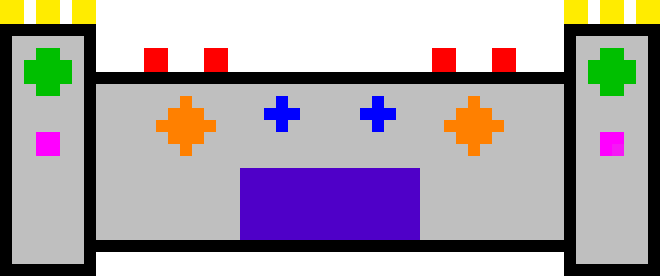
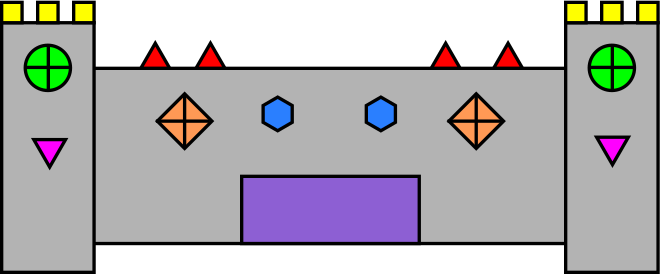
apple fools has ended

Changed region(s): [[0.0, 0.0, 1.0, 0.9927], [0.5455, 0.3504, 0.6061, 0.4964], [0.3939, 0.3504, 0.4545, 0.4964]]

diff --git a/js/states/Load.js b/js/states/Load.js
@@ -14,9 +14,6 @@ Load.shouldLoadAudio = function () {
 };
 
 Load.prototype.preload = function () {
-    // Apple fools joke!
-    game.stage.smoothed = false;
-
     var r = this.game.resolution;
     game.canvas.oncontextmenu = function (e) {
         e.preventDefault();
@@ -43,21 +40,21 @@ Load.prototype.preload = function () {
     game.load.image('ball', 'assets/ball.png');
     if (Math.min(screen.width, screen.height) > 750) {
         this.gridPx = 72;
-        game.load.atlasJSONArray('shapes', 'img/shapes8bit_big.png', 'img/shapes8bit_big.json');
-        game.load.atlasJSONArray('number', 'img/number8bit_big.png', 'img/number8bit_big.json');
+        game.load.atlasJSONArray('shapes', 'img/shapes_big.png', 'img/shapes_big.json');
+        game.load.atlasJSONArray('number', 'img/number_big.png', 'img/number_big.json');
         game.load.atlasJSONArray('ui', 'img/ui_big.png', 'img/ui_big.json');
     }
     else {
         this.gridPx = 36;
-        game.load.atlasJSONArray('shapes', 'img/shapes8bit_small.png', 'img/shapes8bit_small.json');
-        game.load.atlasJSONArray('number', 'img/number8bit_small.png', 'img/number8bit_small.json');
+        game.load.atlasJSONArray('shapes', 'img/shapes_small.png', 'img/shapes_small.json');
+        game.load.atlasJSONArray('number', 'img/number_small.png', 'img/number_small.json');
         game.load.atlasJSONArray('ui', 'img/ui_small.png', 'img/ui_small.json');
     }
     game.load.image('background', 'assets/background.png');
     game.load.image('castle', 'assets/background-castle.png');
     if (Load.shouldLoadAudio()) {
-        game.load.audio('music', ['assets/special/brainwash.ogg', 'assets/special/brainwash.mp3']);
-        game.load.audio('music2', ['assets/special/brainwash2.ogg', 'assets/special/brainwash2.mp3']);
+        game.load.audio('music', ['assets/sound/music.ogg', 'assets/sound/music.m4a', 'assets/sound/music.mp3']);
+        game.load.audio('music2', ['assets/sound/music2.ogg', 'assets/sound/music2.m4a', 'assets/sound/music2.mp3']);
         game.load.audio('match', ['assets/sound/match.wav', 'assets/sound/match.mp3']);
         game.load.audio('nomatch', ['assets/sound/nomatch.wav', 'assets/sound/nomatch.mp3']);
     }

diff --git a/js/view/ScoreText.js b/js/view/ScoreText.js
@@ -5,7 +5,7 @@ function ScoreText(score, color, x, y, charPool) {
     this.x = x;
     this.y = y;
     this.charPool = charPool;
-    this.lifetime = 60;
+    this.lifetime = 100;
     this.setScore(score);
 }
 
@@ -78,8 +78,7 @@ ScoreText.prototype.showAtPosition = function (x, y, charHeight) {
         d.width = charWidth;
         d.height = charHeight;
         //d.tint = ScoreText.colorPalette[this.color];
-        // Apple Fools! no semi-transparent
-        //d.alpha = this.lifetime / 100;
+        d.alpha = Math.min(1, this.lifetime / 60);
     }
 };
 

diff --git a/js/states/MainMenu.js b/js/states/MainMenu.js
@@ -20,7 +20,7 @@
 }
 
 MainMenu.prototype.create = function () {
-    this.game.version = 'v0.7af';
+    this.game.version = 'v0.7.0';
     this.background = this.add.image(0, 0, 'background');
     this.castle = this.add.image(this.game.width/2, this.game.height * 0.705, 'castle');
     this.castle.anchor.set(0.5, 0.72);

diff --git a/sw.js b/sw.js
@@ -1,5 +1,5 @@
 var CACHENAME = 'shapeclear';
-var VERSION = 'v0.7af';
+var VERSION = 'v0.7.0';
 var myPath = location.origin + location.pathname;
 myPath = myPath.match(/(.*\/)/)[1];
 
